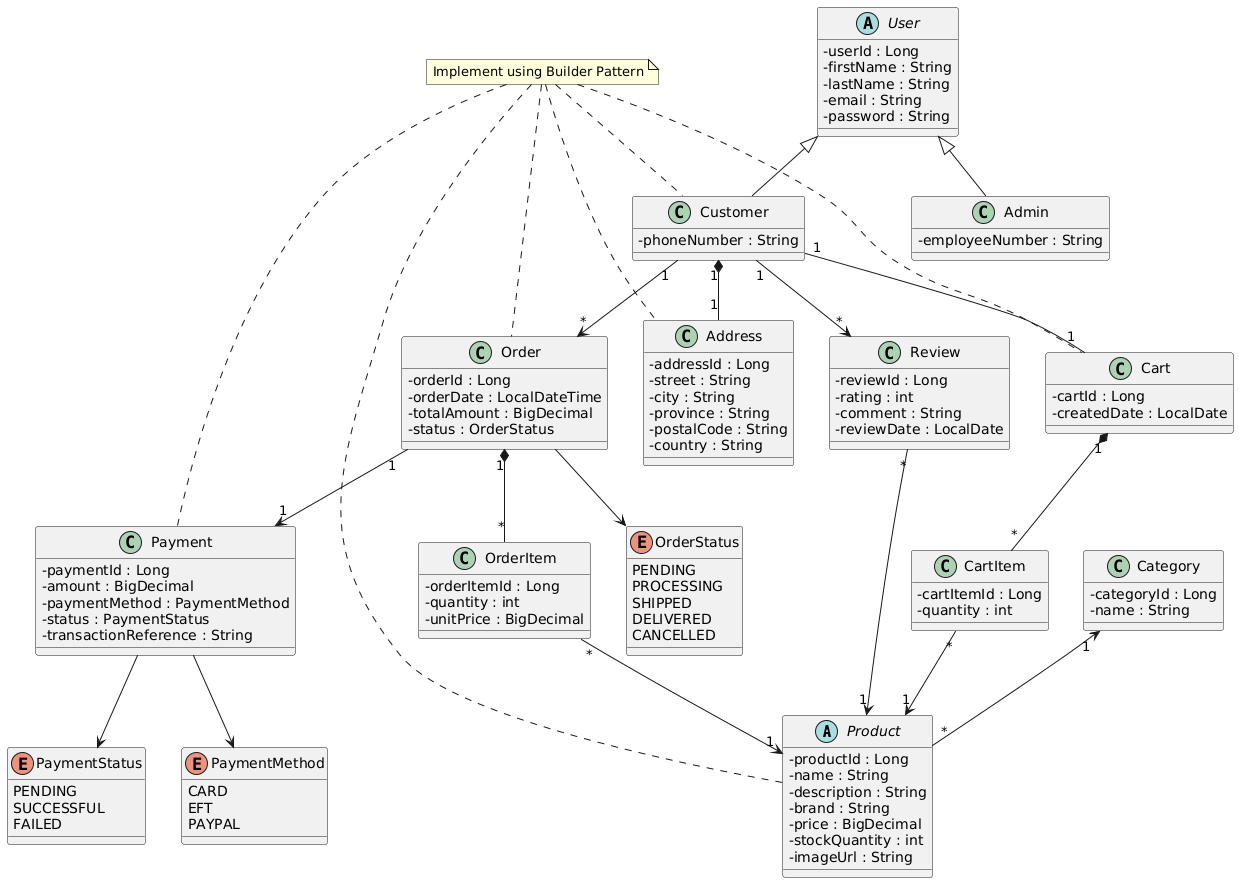
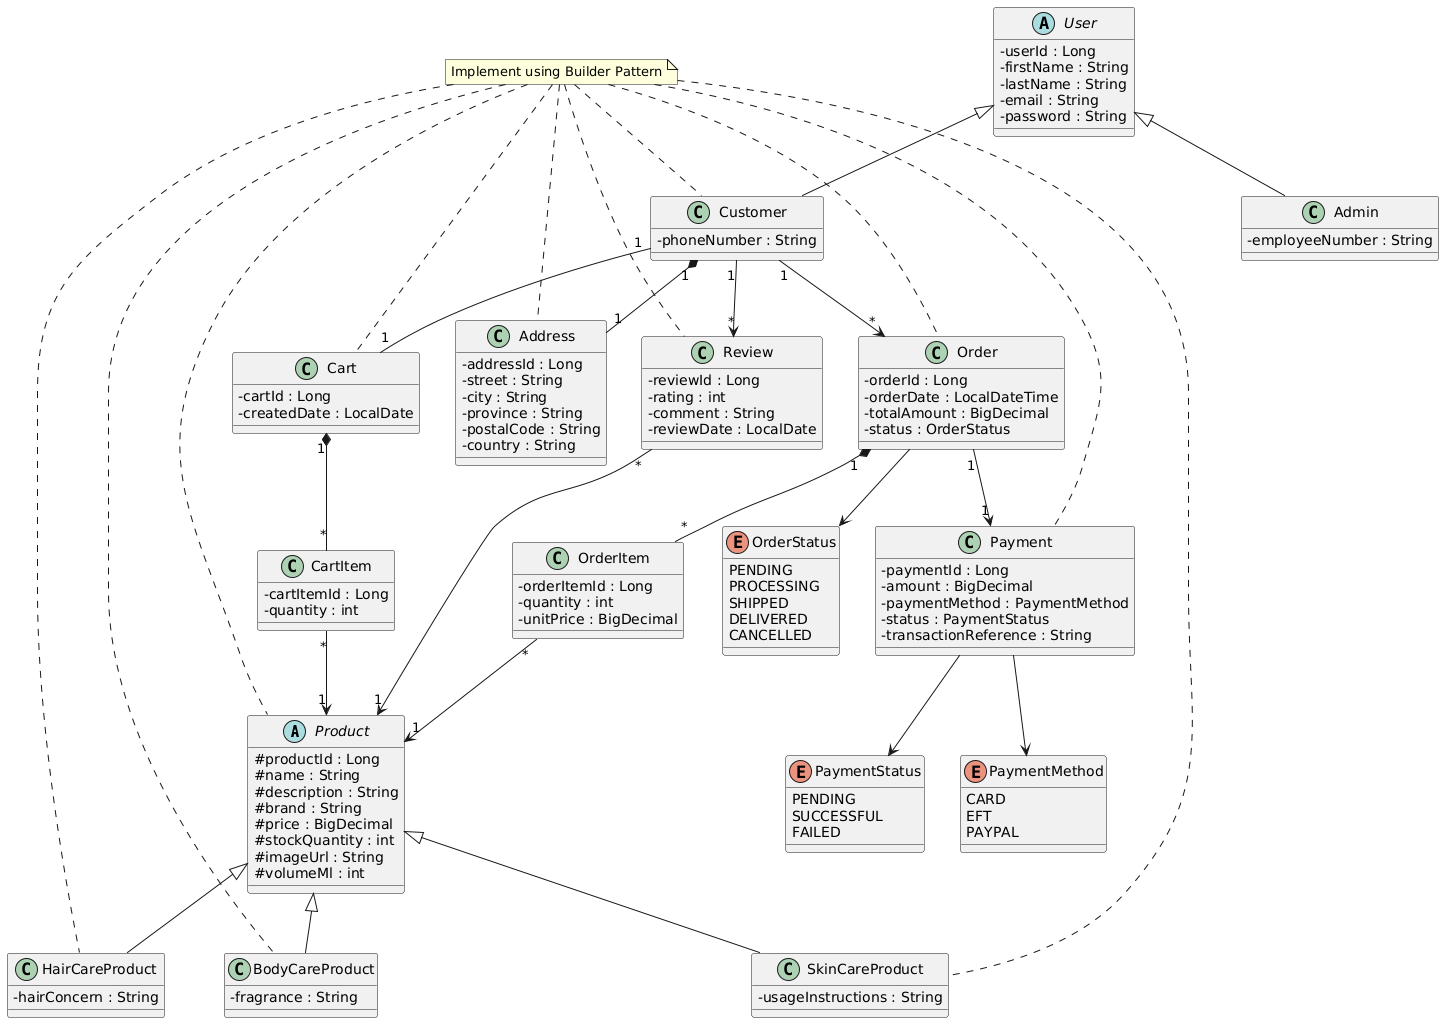
Added abstract Product class with BodyCare, HairCare, and SkinCare builder implementations

diff --git a/src/main/java/ac/za/mycput/domain/BodyCareProduct.java b/src/main/java/ac/za/mycput/domain/BodyCareProduct.java
@@ -1,0 +1,88 @@
+package ac.za.mycput.domain;
+
+import java.math.BigDecimal;
+
+public class BodyCareProduct extends Product {
+
+    private String skinConcern;
+
+    public BodyCareProduct() {
+    }
+
+    private BodyCareProduct(Builder builder) {
+        this.productId = builder.productId;
+        this.name = builder.name;
+        this.description = builder.description;
+        this.brand = builder.brand;
+        this.price = builder.price;
+        this.stockQuantity = builder.stockQuantity;
+        this.imageURL = builder.imageURL;
+        this.VolumeMl = builder.VolumeMl;
+        this.skinConcern = builder.skinConcern;
+    }
+
+    public String getSkinConcern() {
+        return skinConcern;
+    }
+
+    public static class Builder {
+        private String productId;
+        private String name;
+        private String description;
+        private String brand;
+        private BigDecimal price;
+        private int stockQuantity;
+        private String imageURL;
+        private int VolumeMl;
+        private String skinConcern;
+
+        public Builder setProductId(String productId) {
+            this.productId = productId;
+            return this;
+        }
+
+        public Builder setName(String name) {
+            this.name = name;
+            return this;
+        }
+
+        public Builder setDescription(String description) {
+            this.description = description;
+            return this;
+        }
+
+        public Builder setBrand(String brand) {
+            this.brand = brand;
+            return this;
+        }
+
+        public Builder setPrice(BigDecimal price) {
+            this.price = price;
+            return this;
+        }
+
+        public Builder setStockQuantity(int stockQuantity) {
+            this.stockQuantity = stockQuantity;
+            return this;
+        }
+
+        public Builder setImageURL(String imageURL) {
+            this.imageURL = imageURL;
+            return this;
+        }
+
+        public Builder setVolumeMl(int volumeMl) {
+            VolumeMl = volumeMl;
+            return this;
+        }
+
+        public Builder setSkinConcern(String skinConcern) {
+            this.skinConcern = skinConcern;
+            return this;
+        }
+
+        public BodyCareProduct build() {
+            return new BodyCareProduct(this);
+        }
+    }
+}

diff --git a/src/main/java/ac/za/mycput/domain/HairCareProduct.java b/src/main/java/ac/za/mycput/domain/HairCareProduct.java
@@ -1,0 +1,88 @@
+package ac.za.mycput.domain;
+
+import java.math.BigDecimal;
+
+public class HairCareProduct extends Product{
+
+    private String hairConcern;
+
+    public HairCareProduct() {
+    }
+
+    private HairCareProduct(Builder builder) {
+        this.productId = builder.productId;
+        this.name = builder.name;
+        this.description = builder.description;
+        this.brand = builder.brand;
+        this.price = builder.price;
+        this.stockQuantity = builder.stockQuantity;
+        this.imageURL = builder.imageURL;
+        this.VolumeMl = builder.VolumeMl;
+        this.hairConcern = builder.hairConcern;
+    }
+
+    public String getHairConcern() {
+        return hairConcern;
+    }
+
+    public static class Builder {
+        private String productId;
+        private String name;
+        private String description;
+        private String brand;
+        private BigDecimal price;
+        private int stockQuantity;
+        private String imageURL;
+        private int VolumeMl;
+        private String hairConcern;
+
+        public Builder setProductId(String productId) {
+            this.productId = productId;
+            return this;
+        }
+
+        public Builder setName(String name) {
+            this.name = name;
+            return this;
+        }
+
+        public Builder setDescription(String description) {
+            this.description = description;
+            return this;
+        }
+
+        public Builder setBrand(String brand) {
+            this.brand = brand;
+            return this;
+        }
+
+        public Builder setPrice(BigDecimal price) {
+            this.price = price;
+            return this;
+        }
+
+        public Builder setStockQuantity(int stockQuantity) {
+            this.stockQuantity = stockQuantity;
+            return this;
+        }
+
+        public Builder setImageURL(String imageURL) {
+            this.imageURL = imageURL;
+            return this;
+        }
+
+        public Builder setVolumeMl(int volumeMl) {
+            this.VolumeMl = volumeMl;
+            return this;
+        }
+
+        public Builder setHairConcern(String hairConcern) {
+            this.hairConcern = hairConcern;
+            return this;
+        }
+
+        public HairCareProduct build() {
+            return new HairCareProduct(this);
+        }
+    }
+}

diff --git a/src/main/java/ac/za/mycput/domain/SkinCareProduct.java b/src/main/java/ac/za/mycput/domain/SkinCareProduct.java
@@ -1,0 +1,88 @@
+package ac.za.mycput.domain;
+
+import java.math.BigDecimal;
+
+public class SkinCareProduct extends Product {
+
+    private String usageInstructions;
+
+    public SkinCareProduct() {
+    }
+
+    private SkinCareProduct(Builder builder) {
+        this.productId = builder.productId;
+        this.name = builder.name;
+        this.description = builder.description;
+        this.brand = builder.brand;
+        this.price = builder.price;
+        this.stockQuantity = builder.stockQuantity;
+        this.imageURL = builder.imageURL;
+        this.VolumeMl = builder.VolumeMl;
+        this.usageInstructions = builder.usageInstructions;
+    }
+
+    public String getUsageInstructions() {
+        return usageInstructions;
+    }
+
+    public static class Builder {
+        private String productId;
+        private String name;
+        private String description;
+        private String brand;
+        private BigDecimal price;
+        private int stockQuantity;
+        private String imageURL;
+        private int VolumeMl;
+        private String usageInstructions;
+
+        public Builder setProductId(String productId) {
+            this.productId = productId;
+            return this;
+        }
+
+        public Builder setName(String name) {
+            this.name = name;
+            return this;
+        }
+
+        public Builder setDescription(String description) {
+            this.description = description;
+            return this;
+        }
+
+        public Builder setBrand(String brand) {
+            this.brand = brand;
+            return this;
+        }
+
+        public Builder setPrice(BigDecimal price) {
+            this.price = price;
+            return this;
+        }
+
+        public Builder setStockQuantity(int stockQuantity) {
+            this.stockQuantity = stockQuantity;
+            return this;
+        }
+
+        public Builder setImageURL(String imageURL) {
+            this.imageURL = imageURL;
+            return this;
+        }
+
+        public Builder setVolumeMl(int volumeMl) {
+            this.VolumeMl = volumeMl;
+            return this;
+        }
+
+        public Builder setUsageInstructions(String usageInstructions) {
+            this.usageInstructions = usageInstructions;
+            return this;
+        }
+
+        public SkinCareProduct build() {
+            return new SkinCareProduct(this);
+        }
+    }
+}

diff --git a/src/main/java/ac/za/mycput/domain/Product.java b/src/main/java/ac/za/mycput/domain/Product.java
@@ -1,0 +1,36 @@
+package ac.za.mycput.domain;
+
+import jakarta.persistence.*;
+
+import java.math.BigDecimal;
+
+@Entity
+@Inheritance(strategy = InheritanceType.JOINED)
+public abstract class Product {
+
+    @Id
+    @GeneratedValue(strategy = GenerationType.IDENTITY)
+    protected String productId;
+    protected String name;
+    protected String description;
+    protected String brand;
+    protected BigDecimal price;
+    protected int stockQuantity;
+    protected String imageURL;
+    protected int VolumeMl;
+
+
+    @Override
+    public String toString() {
+        return "Product{" +
+                "productId='" + productId + '\'' +
+                ", name='" + name + '\'' +
+                ", description='" + description + '\'' +
+                ", brand='" + brand + '\'' +
+                ", price=" + price +
+                ", stockQuantity=" + stockQuantity +
+                ", imageURL='" + imageURL + '\'' +
+                ", VolumeMl=" + VolumeMl +
+                '}';
+    }
+}